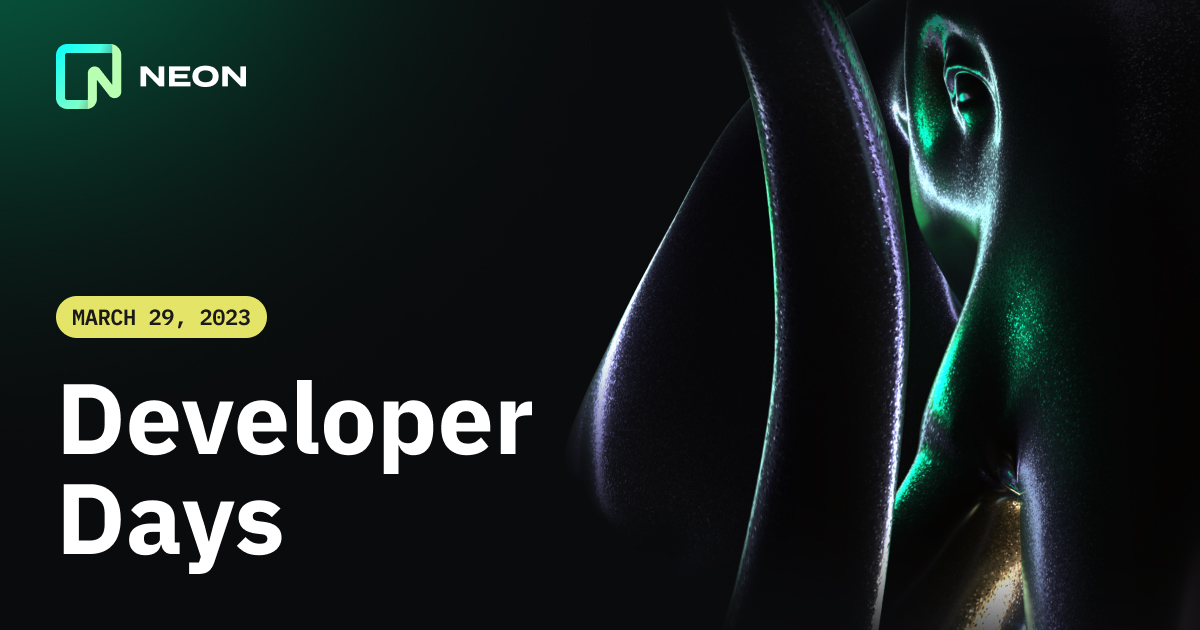
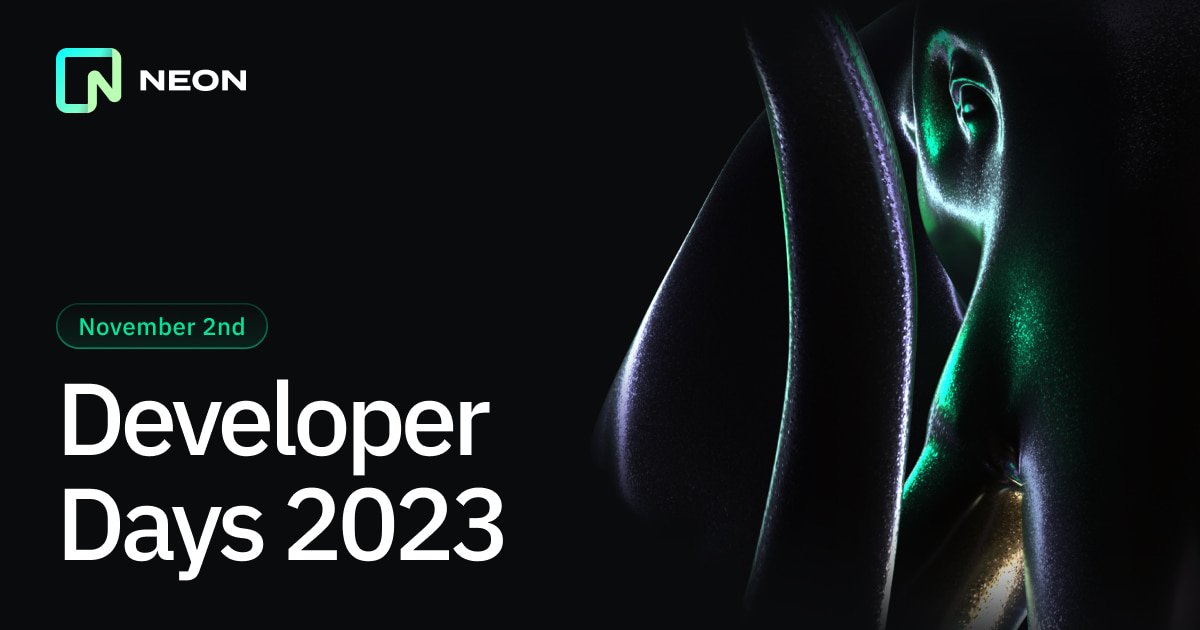
feat: replace twitter with x, social preview

diff --git a/src/components/shared/social-share/twitter-share-button/tiwtter-share-button.jsx b/src/components/shared/social-share/twitter-share-button/tiwtter-share-button.jsx
@@ -4,7 +4,7 @@ import clsx from 'clsx';
 import PropTypes from 'prop-types';
 
 import Button from 'components/shared/button';
-import TwitterIcon from 'icons/twitter-icon.inline.svg';
+import XIcon from 'icons/x-icon.inline.svg';
 
 const objectToGetParams = (object) => {
   const params = Object.entries(object)
@@ -79,7 +79,7 @@ const TwitterShareButton = ({
       theme="code-copy"
       onClick={handleTwitterShare}
     >
-      <TwitterIcon className={clsx('shrink-0', iconSize === 'default' ? 'h-[26px]' : 'h-[14px]')} />
+      <XIcon className={clsx('shrink-0', iconSize === 'default' ? 'h-[26px]' : 'h-[14px]')} />
       <span>{children}</span>
     </Button>
   );

diff --git a/src/components/shared/social-share/social-share.jsx b/src/components/shared/social-share/social-share.jsx
@@ -25,7 +25,7 @@ const SocialShare = ({ className = null, url }) => {
           url={url}
           shareText="Just got my ticket to @neondatabase Developer Days. Claim yours!"
         >
-          Twitter
+          Post
         </TwitterShareButton>
         <Button
           className={clsx(

diff --git a/src/constants/seo-data.js b/src/constants/seo-data.js
@@ -1,4 +1,4 @@
-export const DEFAULT_IMAGE_PATH = '/images/social-previews/index.jpg';
+export const DEFAULT_IMAGE_PATH = '/images/social-previews/developer-days.jpg';
 
 export default {
   404: {
